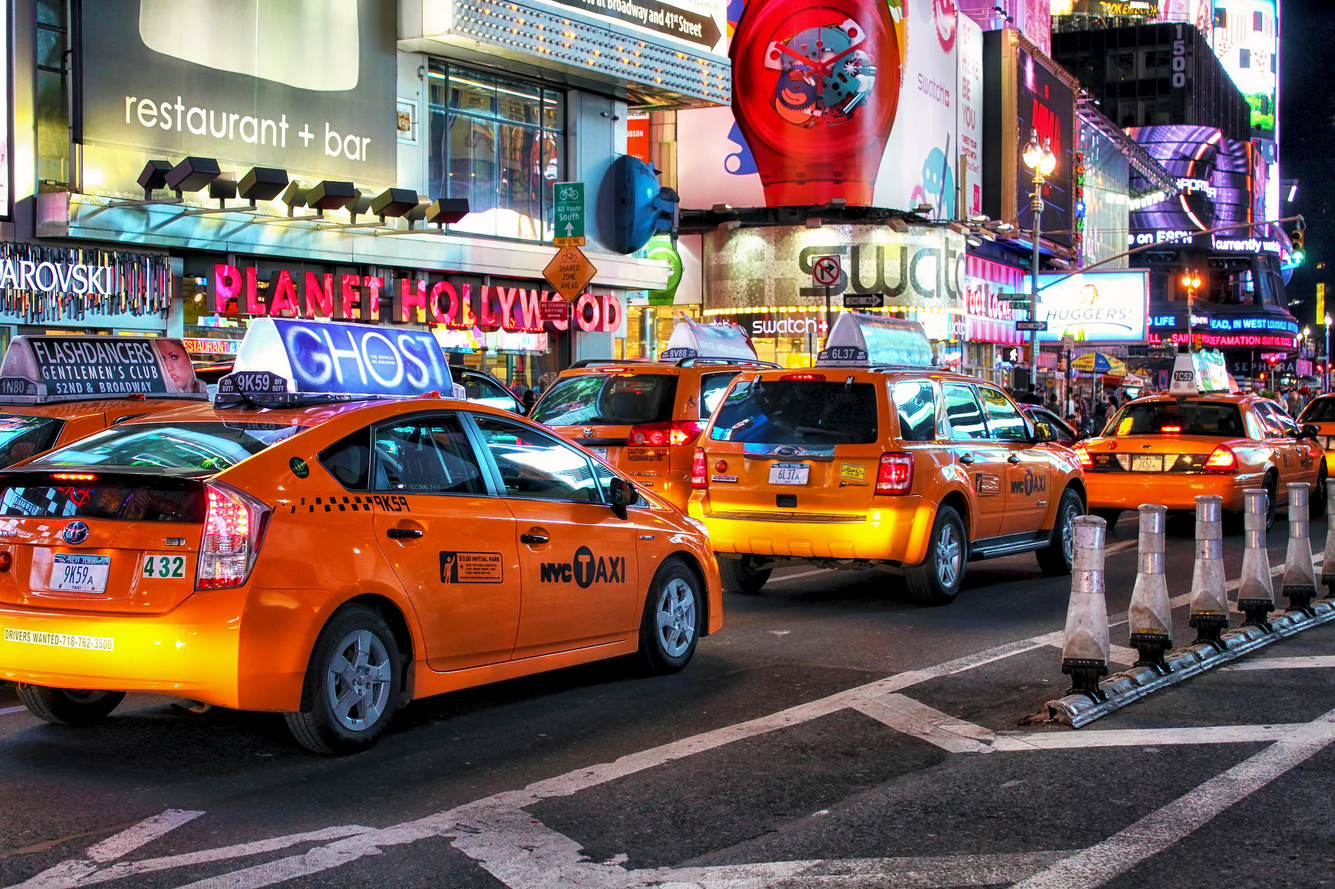
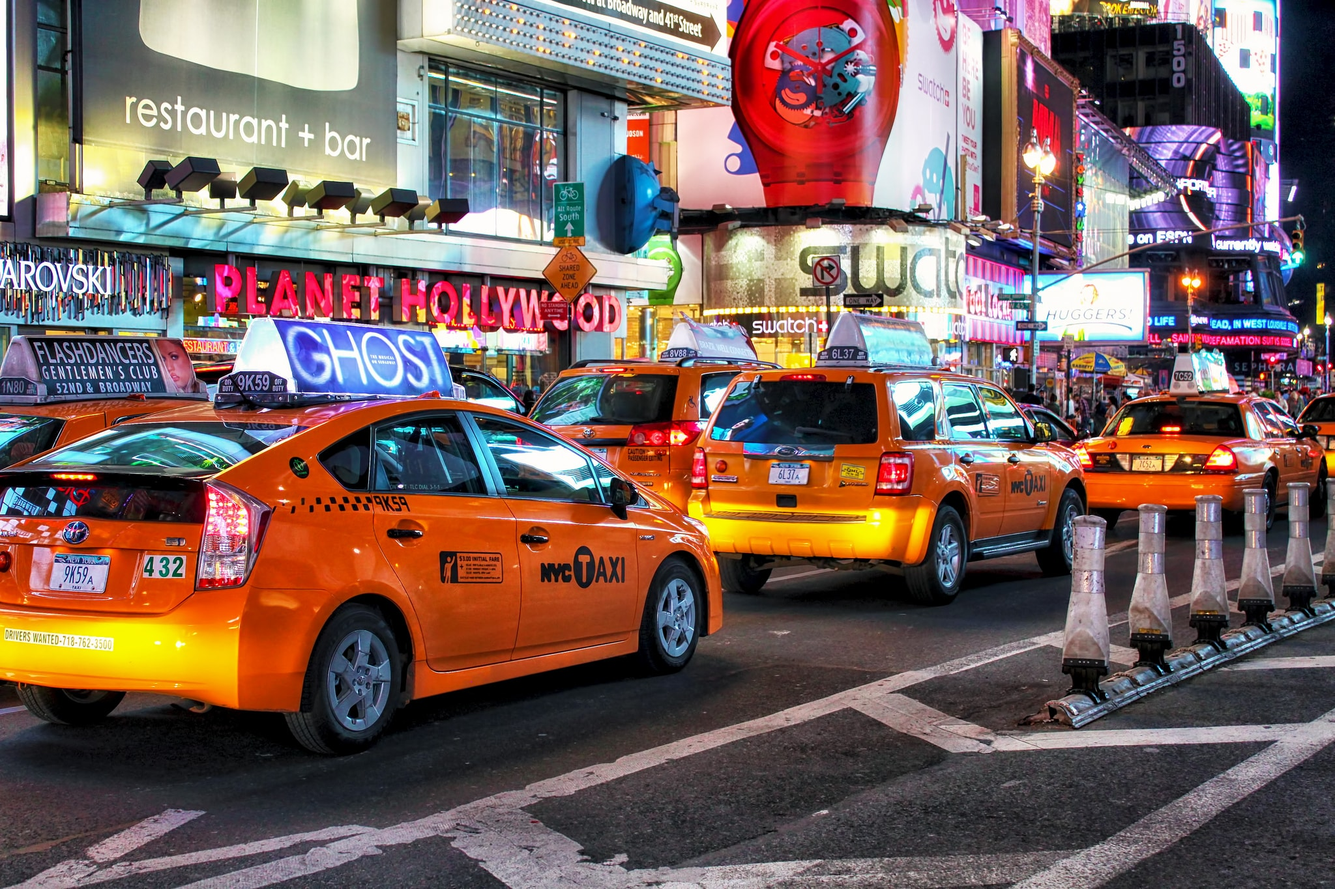
compress images and css

diff --git a/css/taxi109_min.css b/css/taxi109_min.css
@@ -1,0 +1,1 @@
+@import "https://fonts.googleapis.com/css?family=Open+Sans:400,300,600,700,800";@import "https://fonts.googleapis.com/css?family=Lobster";@import "https://fonts.googleapis.com/css?family=Arvo";body,html{margin:0px;font-family:'Open Sans';font-size:16px;font-weight:200;-webkit-font-smoothing:antialiased !important}a{color:#4aaee1}ul{margin:0;padding:0}#container{height:100%;margin-left:85px;margin-right:85px}.wrapper{position:relative}nav{margin-top:10px}.bar{list-style:none;width:100%;font-size:0;padding:0}.bar li{display:inline-block;width:20%;height:7px}.bar:nth-child(odd) li:nth-child(even){background:black}.bar:nth-child(even) li:nth-child(even){background:#ffde00}.bar:nth-child(odd) li:nth-child(odd){background:#ffde00}.bar:nth-child(even) li:nth-child(odd){background:black}nav > span{line-height:60px}#nav-title{font-size:36px;font-family:'Lobster'}#nav-link{float:right}#nav-link a{text-decoration:none;font-family:'Lobster';font-style:italic;color:black;font-size:17px}#nav-link img{width:30px;vertical-align:middle}#nav-menu{list-style:none;width:100%;padding:0;margin:0}#nav-menu li{display:inline-block;background-color:#eee;padding:0;line-height:35px;width:20%;text-align:center;transition:background-color 0.5s ease}#nav-menu li:hover{color:white}#nav-menu li:nth-child(odd):hover{background-color:#4aaee1}#nav-menu li:nth-child(even):hover{background-color:#ffde00}#nav-menu span{color:black;font-weight:bolder}#nav-menu img{width:100%}#nav-menu li .margin-wrapper{margin:0 13px}nav .dropdown{position:absolute;background-color:white;border-bottom:2px solid;border-left:2px solid;border-right:2px solid;text-align:left;display:none;z-index:100}nav .dropdown h4{margin:10px 0 8px;line-height:24px}nav .dropdown p{font-size:14px;line-height:20px}#nav-menu li:hover .dropdown{display:block;color:black}.dropdown:hover{display:block}nav .dropdown.blue{border-color:#4aaee1}nav .dropdown.yellow{border-color:#ffde00}nav .dropdown .img-wrapper{margin-top:8px;overflow:hidden;height:140px;background-position:center;background-size:cover}#title{margin-top:50px;-webkit-transition:all .4s ease;position:relative}#title img{filter:grayscale(100%);-webkit-filter:grayscale(100%);filter:gray;-webkit-transition:all .4s ease;z-index:-1;max-width:100%;position:relative}#title:hover img{filter:grayscale(0%);-webkit-filter:grayscale(0%);filter:none}#title .center-banner{text-align:center;padding:10px 0;background-color:rgba(0,0,0,0.5);color:white;position:absolute;width:100%;top:350px}#title .center-banner h1{font-size:52px;font-family:'Lobster'}#title .center-banner h3,#title .center-banner h4{line-height:30px;margin:0}#title .center-banner h4{font-style:italic}#post-info{margin-top:35px;text-align:center}#article-details{color:#777;font-size:110%}#article-links{list-style:none}#article-links li{display:inline-block;margin:0 20px;line-height:50px}#article-links img{height:30px;vertical-align:middle}.fb-share-button > span{vertical-align:middle !important}#entry-content{margin:0 150px}#entry-content h2{margin-top:80px}#entry-content p{font-size:107%;line-height:32px}#entry-content ul li{margin:15px 0}.figure{max-width:100%;margin:10px 0;border:2px solid #ffde00;padding:10px;text-align:center}.figure img{width:100%}.table{border-collapse:collapse;border-spacing:0;width:100%;text-align:center;margin:40px 0}.table caption{font-weight:bold;text-transform:uppercase;font-size:105%;margin-bottom:12px}.table th{background-color:#ffde00;padding:11px 0}.table tr{padding:11px 0;line-height:40px;border-bottom:1px solid black;border-top:1px solid black;border-collapse:collapse;background-color:#fafafa}.numerical{font-family:'Arvo'}.uppercase{text-transform:uppercase}.center{width:100%;text-align:center}#footer{border-top:5px solid black;margin-top:55px;margin-bottom:30px;padding-top:10px;text-align:center;font-size:90%;line-height:30px}

diff --git a/index.html b/index.html
@@ -8,7 +8,7 @@
 	<meta name="author" content="Alex Orlov, Kristen Faulkner, Hugh Zabriskie, and Stefan Rajkovic">
 
 	<!-- CSS -->
-	<link rel="stylesheet" href="taxi109.css">
+	<link rel="stylesheet" href="css/taxi109_min.css">
 
 	<!-- LaTeX -->
 	<script type="text/javascript" src="http://latex.codecogs.com/latexit.js"></script>
